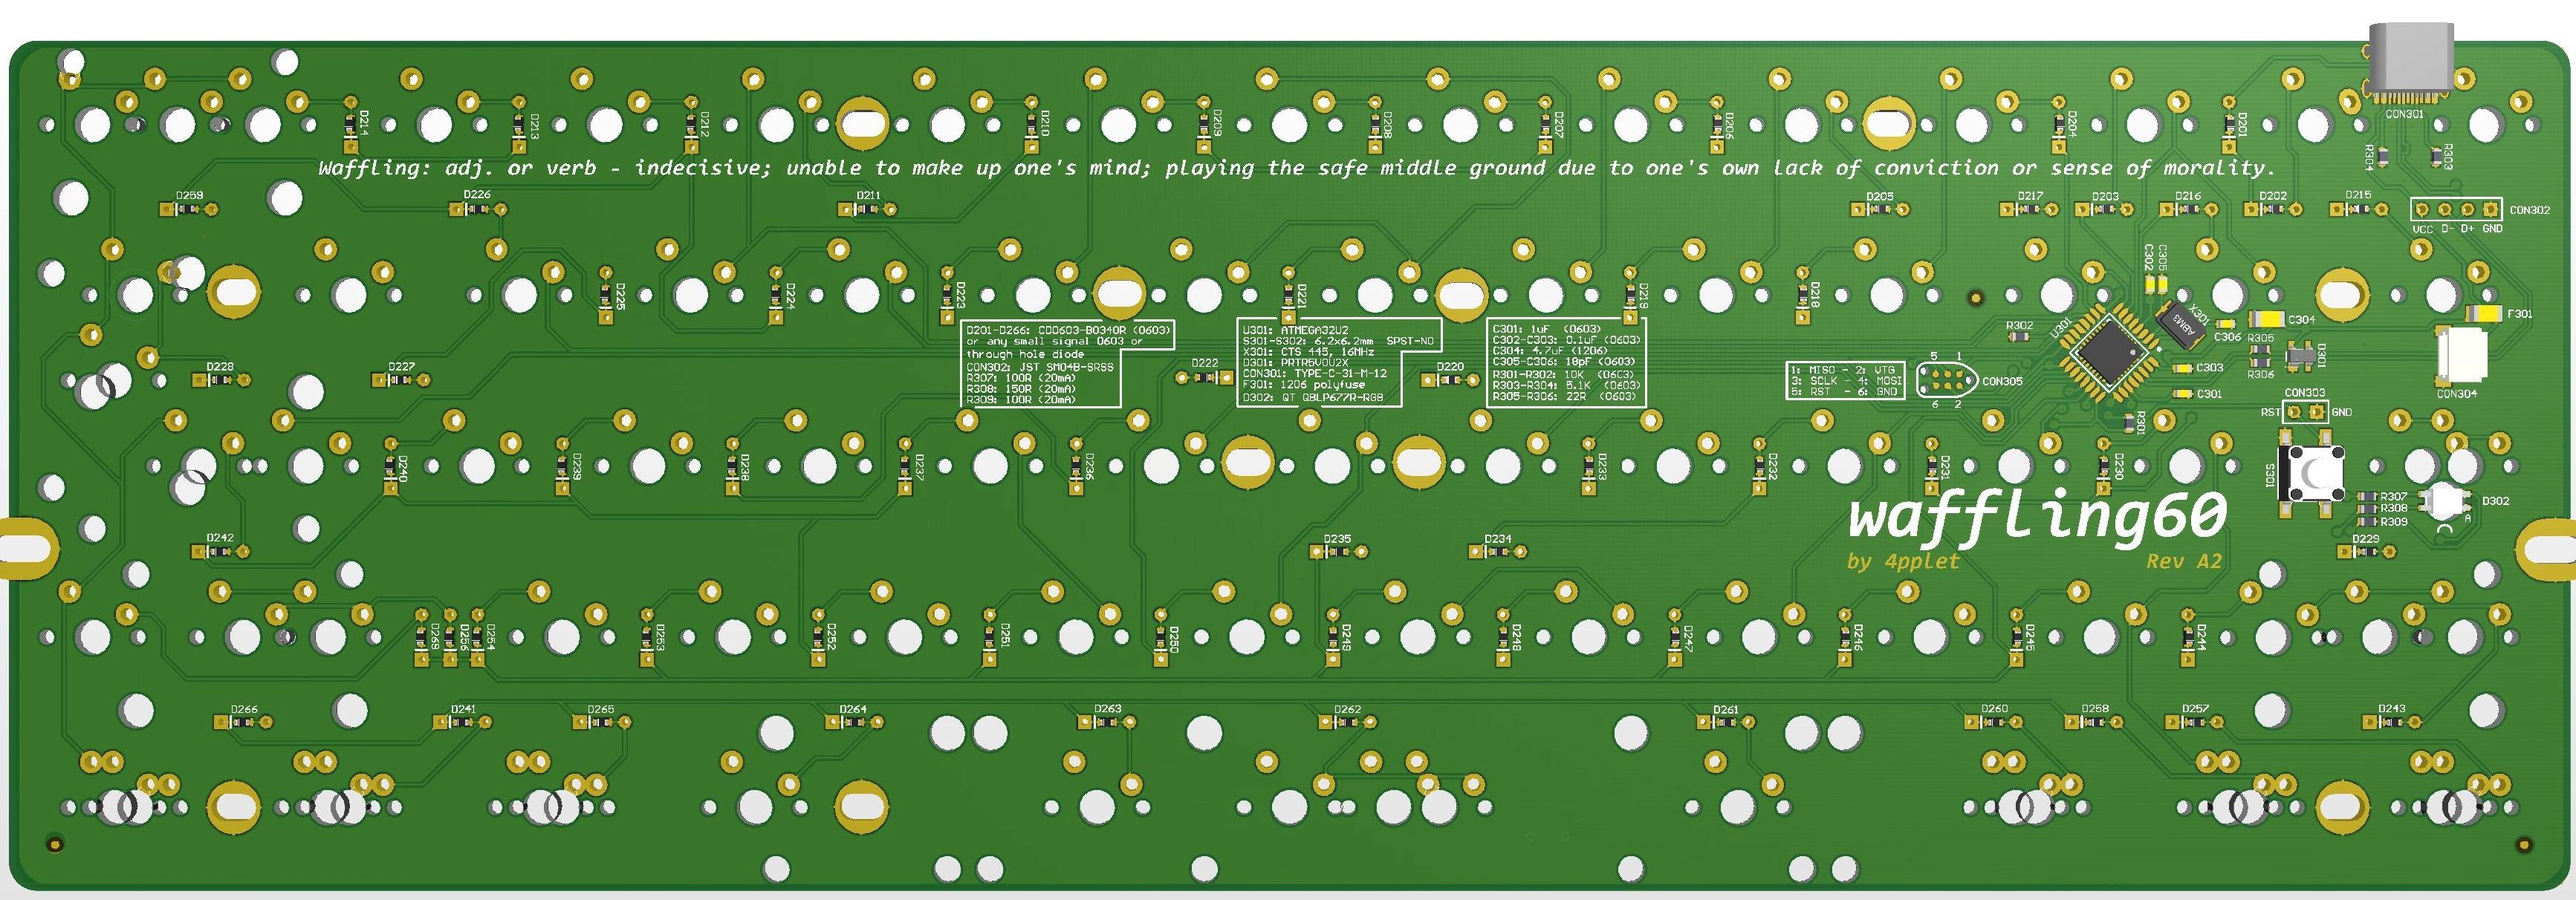
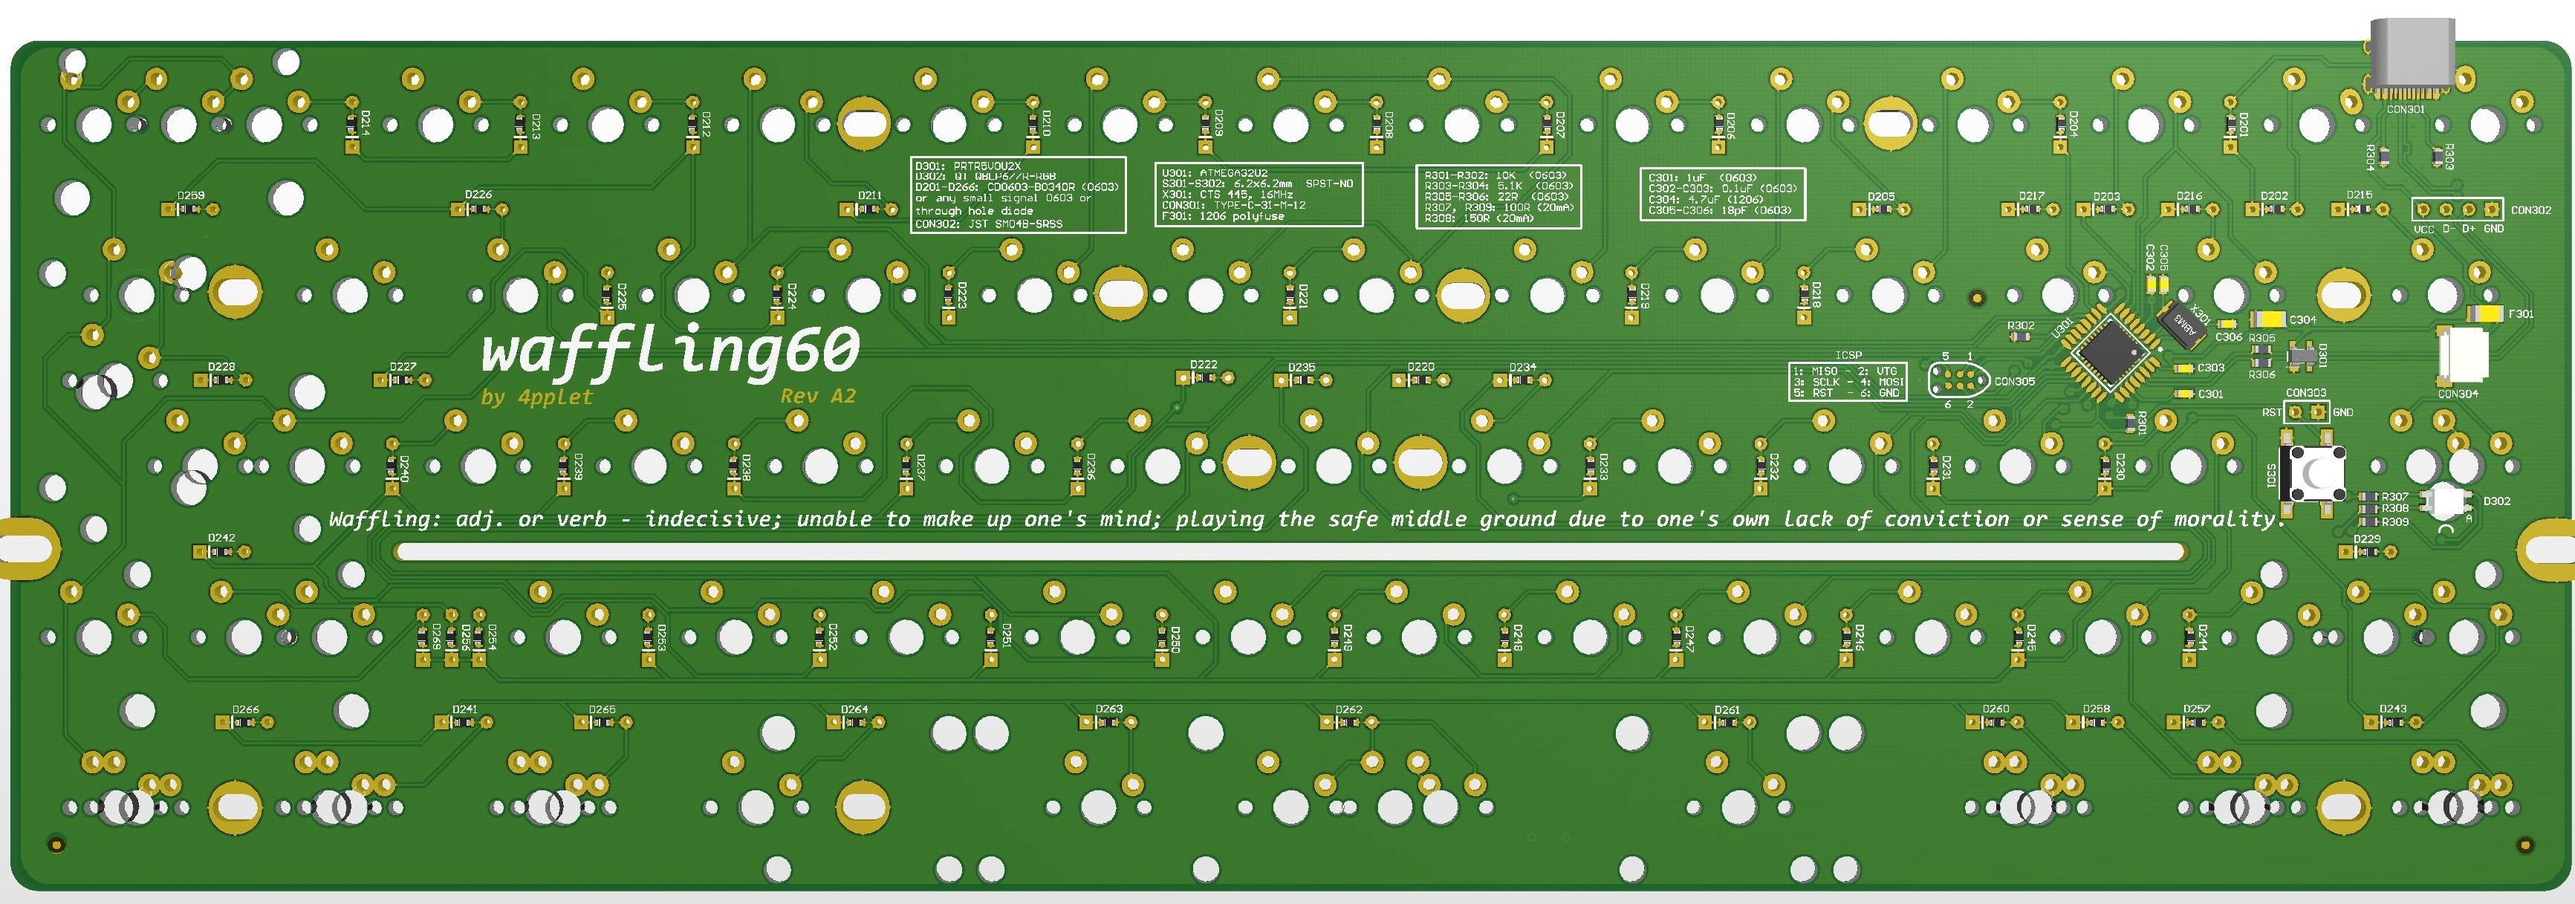
updated pic and plate

diff --git a/README.md b/README.md
@@ -24,6 +24,9 @@ Prototyping phase.
 ## Altium view of - Hotswap
 ![alt text](./readme-images/waffling60-MXHS_Rev_A2.jpg "PCB View - Rev A")
 
+## Altium view of - Plate
+![alt text](./readme-images/waffling60-Plate_A2.jpg "PCB View - Rev A")
+
 ## Revisions:
 - Rev A1: Initial prototype based on Steezy60 Alps-version.
 - Rev A2: Rotate Fn-switch (split RShift) on solder version. Rotate LShift stabilizer on both versions. To rotate left shift stabilizer on hot-swap pcb, adjacent sockets is also rotated.
